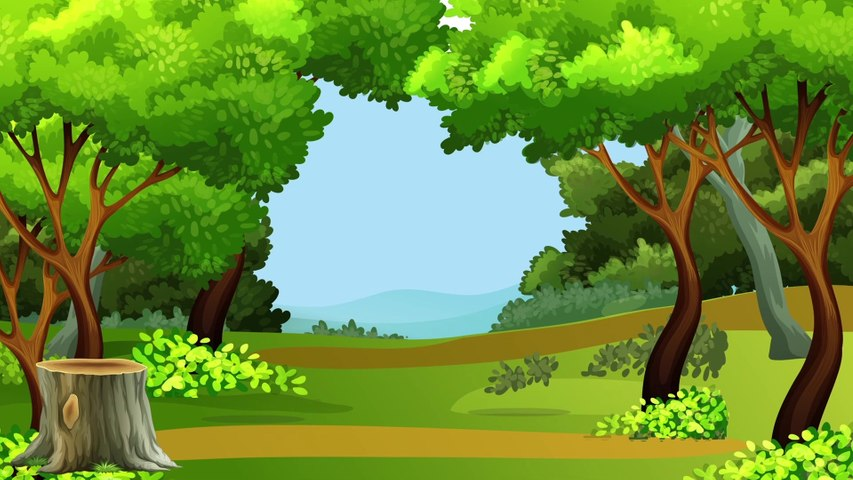
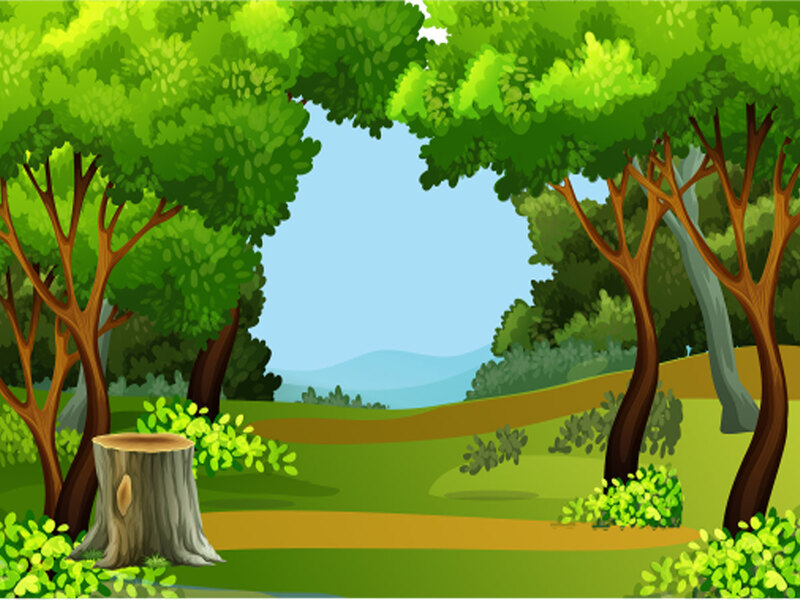
Fixed player falling out of world
Changed:
 - background size to fit tilemap

diff --git a/fruit-catcher/src/main/java/fruitcatcher/FruitCatcher.java b/fruit-catcher/src/main/java/fruitcatcher/FruitCatcher.java
@@ -23,8 +23,8 @@ public class FruitCatcher extends GameEngine {
 
     @Override
     public void setupGame() {
-        int worldWidth = 853;
-        int worldHeight = 480;
+        int worldWidth = 800;
+        int worldHeight = 600;
         
         // of course it is best to add new game objects
         // in a separate method instead of making the update so large.
@@ -71,10 +71,10 @@ public class FruitCatcher extends GameEngine {
         tileMap = new TileMap(tileSize, tileTypes, tilesMap);
     }
     
-   // private void initializeSound() {
-   // 	backgroundMusic = new Sound(this, MEDIA_URL.concat("jump_08.mp3"));
-	//	backgroundMusic.loop(-1);
-	//}
+	/*
+	 * private void initializeSound() { backgroundMusic = new Sound(this,
+	 * MEDIA_URL.concat("jump_08.mp3")); backgroundMusic.loop(-1); }
+	 */
     
 
 }
